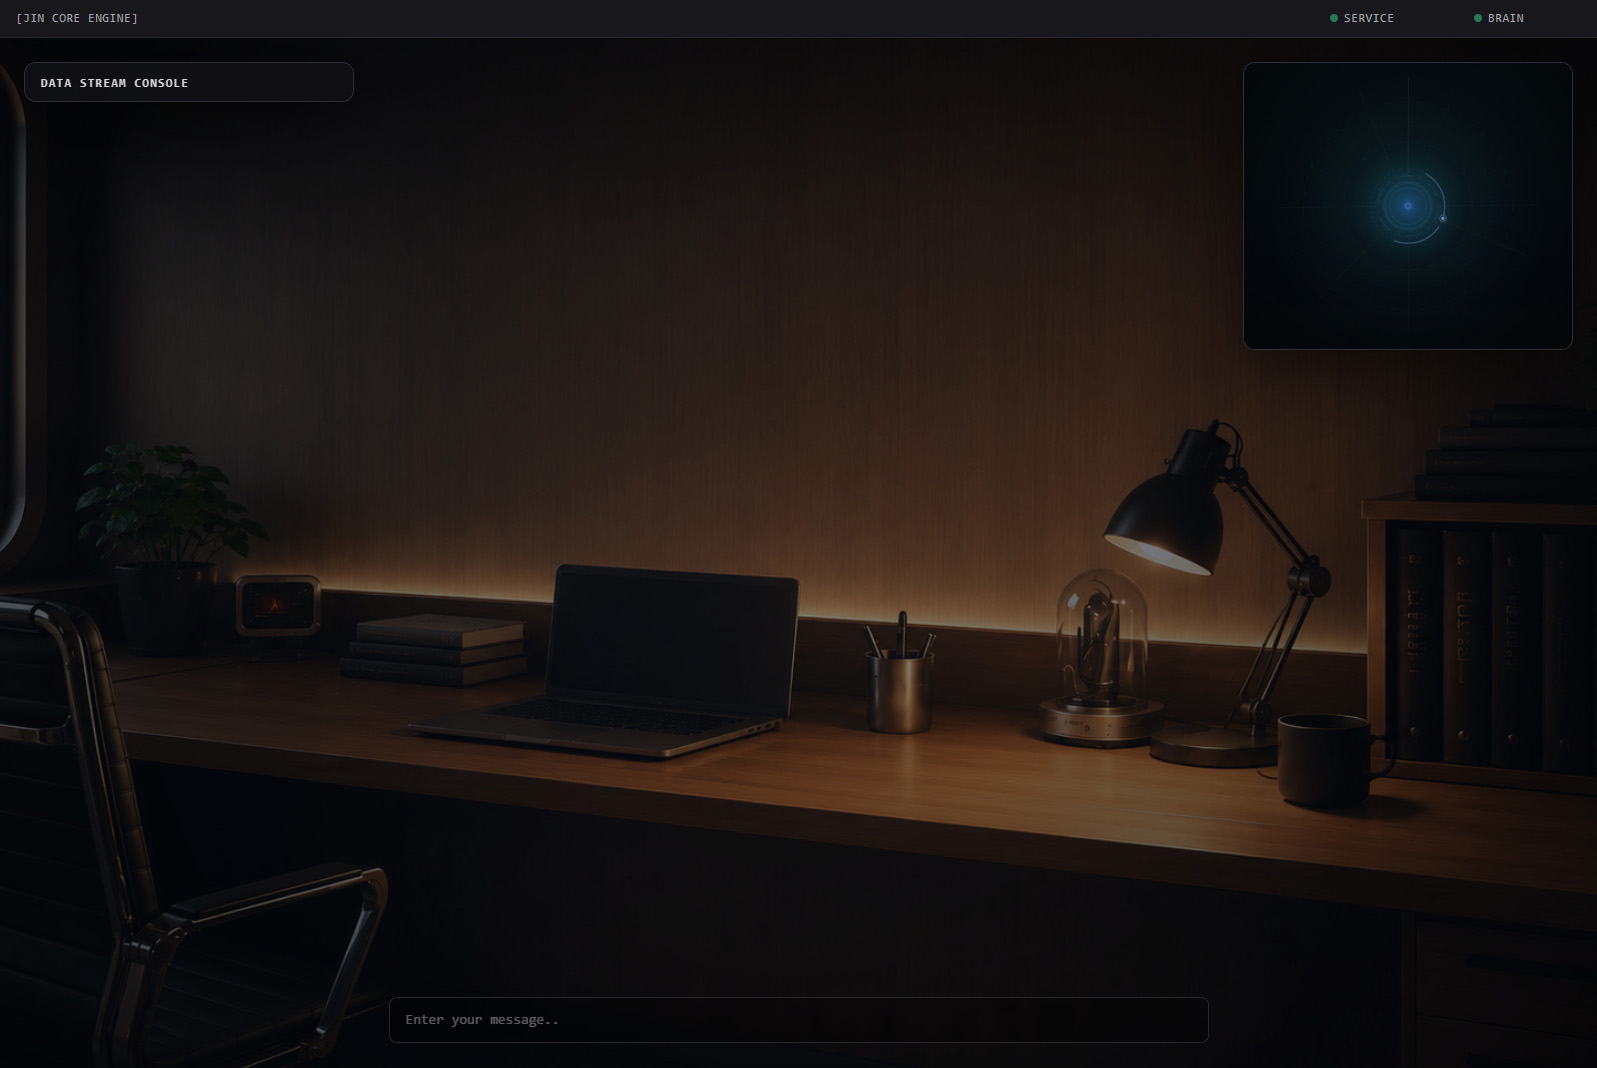
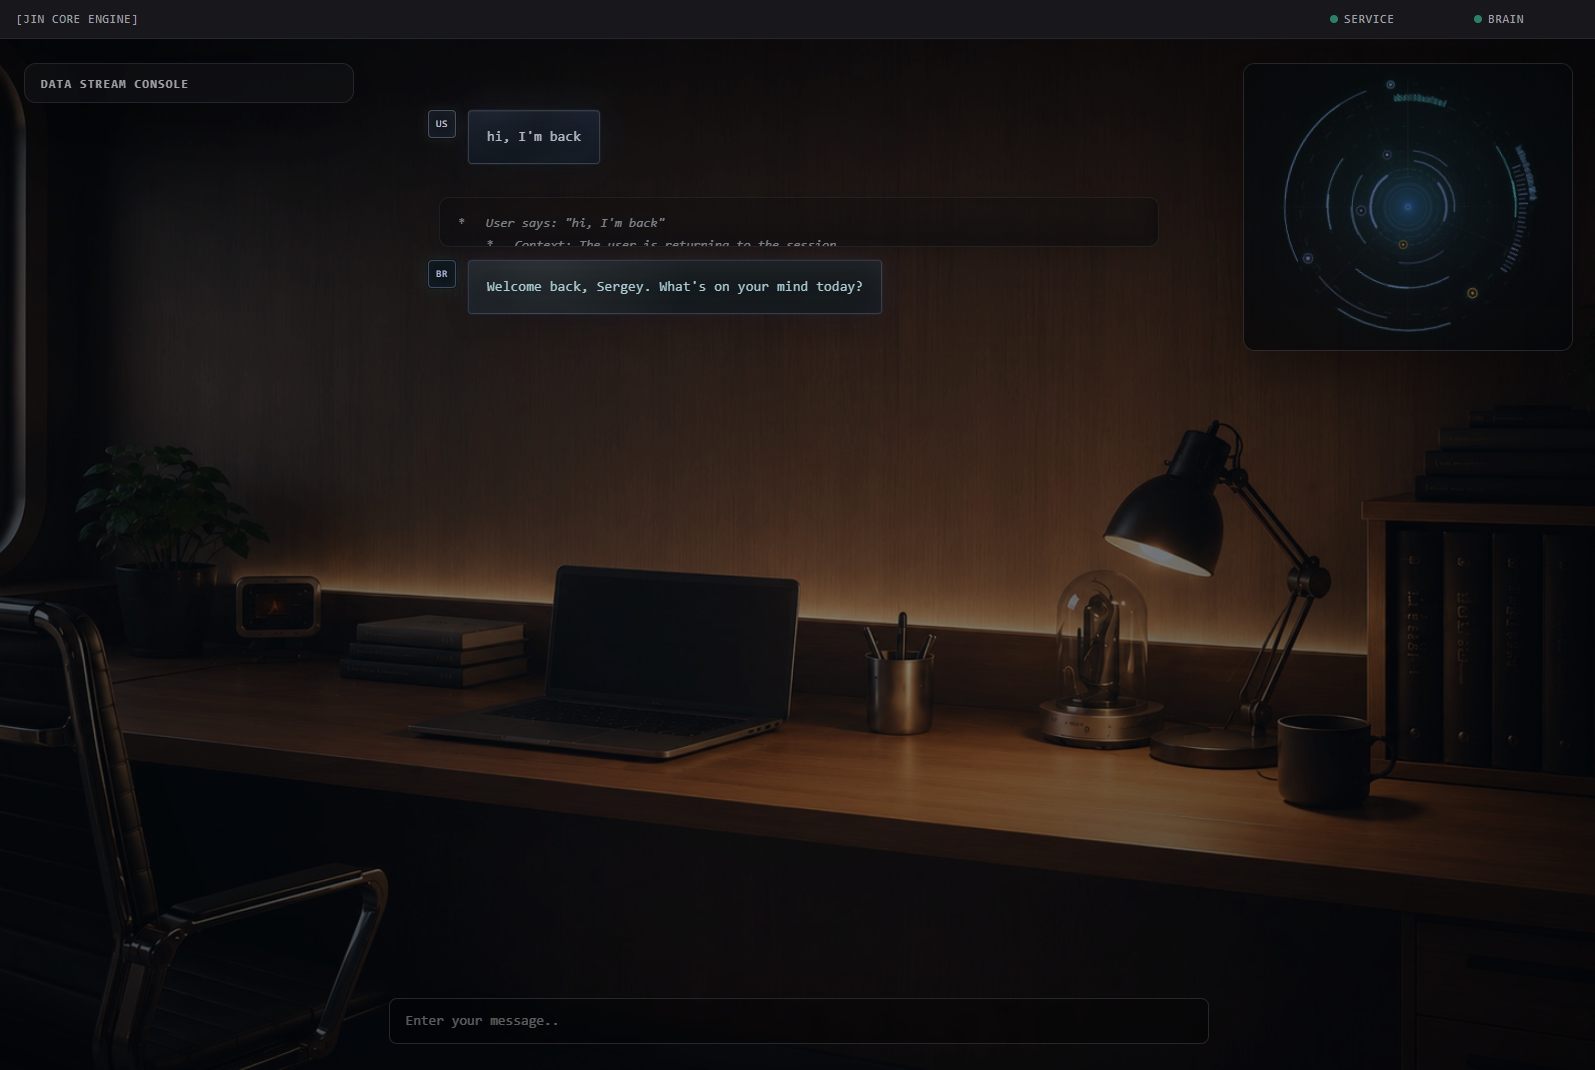
chore: cleanup ui
- update ui with close and attach buttons
- update main screenshot

diff --git a/ui/static/css/runtime-memory.css b/ui/static/css/runtime-memory.css
@@ -283,13 +283,6 @@
             );
 }
 
-.runtime-memory-delayed-row-pinned {
-    background: rgba(244, 244, 245, 0.035);
-    box-shadow:
-            inset 0 0 0 1px rgba(228, 228, 231, 0.08),
-            0 0 12px rgba(228, 228, 231, 0.08);
-}
-
 .runtime-memory-delayed-row-pinned .runtime-memory-key,
 .runtime-memory-delayed-row-pinned .runtime-memory-value {
     color: rgba(244, 244, 245, 0.82);
@@ -314,7 +307,6 @@
     color: rgba(161, 161, 170, 0.9);
     transition:
             color 0.18s ease,
-            background-color 0.18s ease,
             text-shadow 0.18s ease;
 }
 
@@ -322,7 +314,6 @@
 .delayed-memory-modal-icon-button:focus-visible {
     outline: none;
     color: rgba(244, 244, 245, 0.98);
-    background: rgba(244, 244, 245, 0.05);
 }
 
 .delayed-memory-modal-pin svg {
@@ -334,7 +325,6 @@
 
 .delayed-memory-modal-pin-active {
     color: rgba(240, 253, 250, 0.98);
-    background: rgba(240, 253, 250, 0.07);
 }
 
 .delayed-memory-modal-pin-active svg {

diff --git a/ui/static/js/chat-attachments.js b/ui/static/js/chat-attachments.js
@@ -322,7 +322,7 @@ function ensureJinAttachmentModal() {
   closeButton.type =
     "button";
   closeButton.className =
-    "inline-flex h-7 w-7 shrink-0 items-center justify-center rounded p-0 text-[18px] leading-none text-zinc-300 transition hover:bg-zinc-800/60 hover:text-red-200 focus:outline-none";
+    "inline-flex h-7 w-7 shrink-0 items-center justify-center rounded p-0 text-[18px] leading-none text-zinc-300 transition hover:text-red-200 focus:outline-none";
   closeButton.setAttribute(
     "aria-label",
     "Close"

diff --git a/ui/static/js/logger/session-actions.js b/ui/static/js/logger/session-actions.js
@@ -577,7 +577,7 @@ function ensureSessionActionsModal() {
     "button";
 
   closeButton.className =
-    "inline-flex h-7 w-7 items-center justify-center rounded text-[18px] leading-none text-zinc-400 transition hover:bg-zinc-800/60 hover:text-zinc-100 focus:outline-none";
+    "inline-flex h-7 w-7 items-center justify-center rounded text-[18px] leading-none text-zinc-400 transition hover:text-zinc-100 focus:outline-none";
 
   closeButton.setAttribute(
     "aria-label",

diff --git a/ui/static/js/logger/trace-modal.js b/ui/static/js/logger/trace-modal.js
@@ -47,7 +47,7 @@ function ensureTraceModal() {
     "button";
 
   closeButton.className =
-    "inline-flex h-7 w-7 items-center justify-center rounded text-[18px] leading-none text-zinc-400 transition hover:bg-zinc-800/60 hover:text-zinc-100 focus:outline-none";
+    "inline-flex h-7 w-7 items-center justify-center rounded text-[18px] leading-none text-zinc-400 transition hover:text-zinc-100 focus:outline-none";
 
   closeButton.setAttribute(
     "aria-label",
